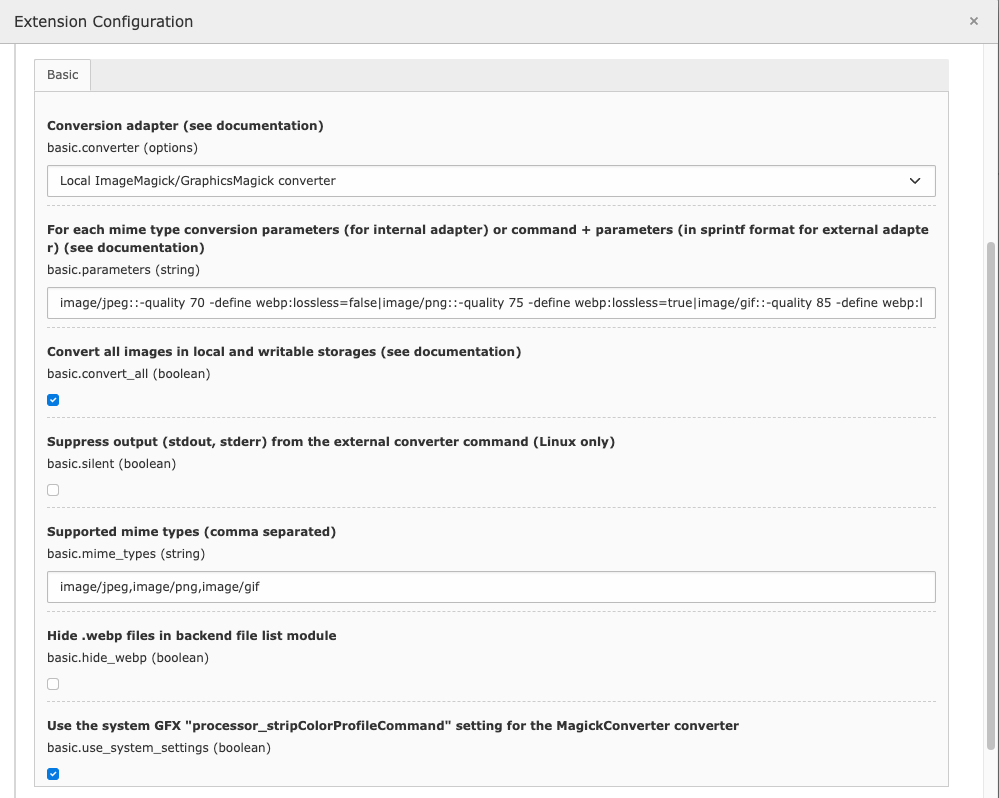
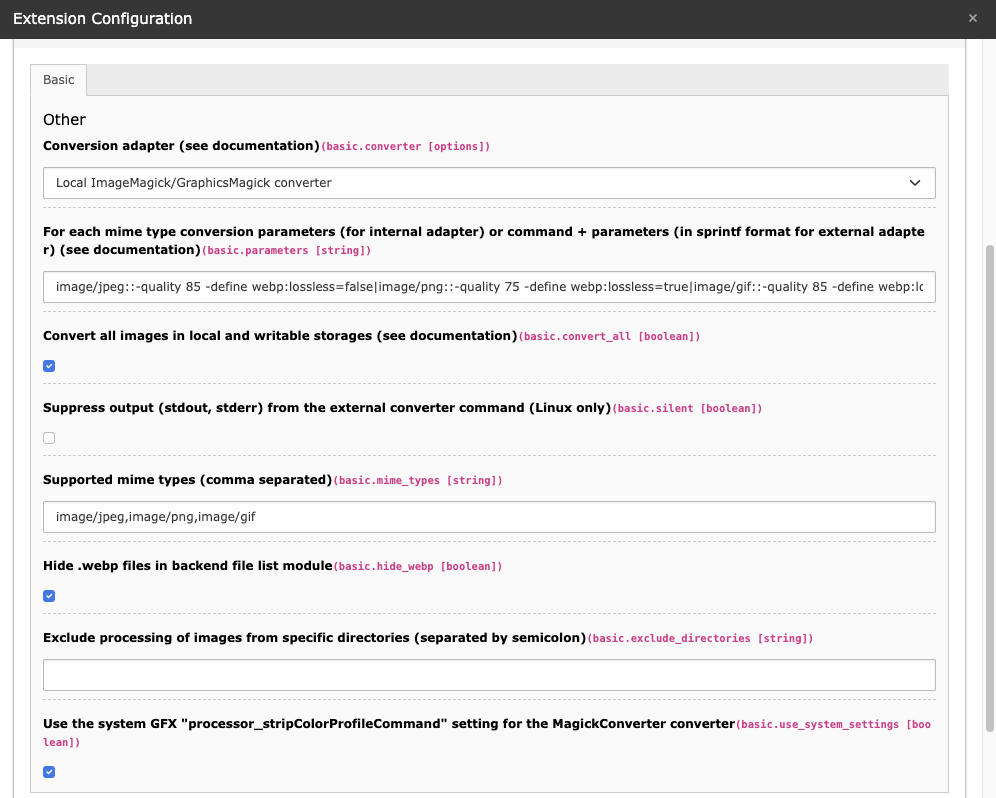
[FEATURE] Add a new setting to exclude directories from processing
Update documentation.

Changed region(s): [[0.0, 0.0, 1.0, 1.0], [0.9337, 0.6316, 0.9649, 0.6617], [0.9337, 0.2105, 0.9649, 0.2406]]

diff --git a/Classes/EventListener/AfterFileProcessing.php b/Classes/EventListener/AfterFileProcessing.php
@@ -112,6 +112,10 @@ final class AfterFileProcessing
             return false;
         }
 
+        if ($this->originalFileIsInExcludedDirectory($processedFile->getOriginalFile())) {
+            return false;
+        }
+
         return true;
     }
 
@@ -147,6 +151,23 @@ final class AfterFileProcessing
         }
 
         return 'Local' === $storage->getDriverType() && $storage->isWritable();
+    }
+
+    private function originalFileIsInExcludedDirectory(FileInterface $file): bool
+    {
+        $storageBasePath = $file->getStorage()->getConfiguration()['basePath'];
+        $filePath = rtrim($storageBasePath, '/') . '/' . ltrim($file->getIdentifier(), '/');
+        $excludeDirectories = array_filter(explode(';', Configuration::get('exclude_directories')));
+
+        if (!empty($excludeDirectories)) {
+            foreach ($excludeDirectories as $excludedDirectory) {
+                if (str_starts_with($filePath, trim($excludedDirectory))) {
+                    return true;
+                }
+            }
+        }
+
+        return false;
     }
 
     private function removeProcessedFile(ProcessedFile $processedFile): void

diff --git a/ext_localconf.php b/ext_localconf.php
@@ -1,12 +1,15 @@
 <?php
 
+use Plan2net\Webp\Core\Filter\FileNameFilter;
+use Plan2net\Webp\Service\Configuration;
+
 defined('TYPO3') || exit;
 
 (static function () {
-    if (\Plan2net\Webp\Service\Configuration::get('hide_webp')) {
+    if (Configuration::get('hide_webp')) {
         // Hide webp files in file lists
         $GLOBALS['TYPO3_CONF_VARS']['SYS']['fal']['defaultFilterCallbacks'][] = [
-            \Plan2net\Webp\Core\Filter\FileNameFilter::class,
+            FileNameFilter::class,
             'filterWebpFiles',
         ];
     }

diff --git a/Classes/Service/Webp.php b/Classes/Service/Webp.php
@@ -27,6 +27,7 @@ final class Webp
         if ('webp' === $originalFile->getExtension()) {
             return;
         }
+
         $processedFile->setName($originalFile->getName() . '.webp');
         $processedFile->setIdentifier($originalFile->getIdentifier() . '.webp');
 

diff --git a/README.md b/README.md
@@ -1,9 +1,5 @@
 # WebP for TYPO3 CMS
 
-Use version 2.* for TYPO3 CMS LTS 8 and 9 and >= 3.* for TYPO3 CMS >= 10.4
-
-:fire: **If you update from a previous version to 2.0 you have to save the configuration again once!**
-
 ## What does it do?
 
 Adds an automagically created _WebP_ copy for every processed jpg/jpeg/png/gif image in the format
@@ -106,6 +102,14 @@ If you need a more customized behaviour for hiding or showing the generated file
 you can always remove or change the `$GLOBALS['TYPO3_CONF_VARS']['SYS']['fal']['defaultFilterCallbacks']` settings
 (see `ext_localconf.php` for details) in your own extension.
 
+### `exclude_directories`
+
+    # cat=basic; type=string; label=Exclude processing of images from specific directories (separated by semicolon)
+    exclude_directories =
+
+Here you can exclude processing of images from specific directories.
+Example value: `/fileadmin/demo/special;/another-storage/demo/exclusive`
+
 ### `use_system_settings`
 
     # cat=basic; type=boolean; label=Use the system GFX "processor_stripColorProfileCommand" setting for the MagickConverter converter
@@ -156,6 +160,14 @@ Add these rules to your `server` configuration:
 
 Make sure that there are no other rules that prevent further rules or already apply to the specified image formats and prevent further execution!
 
+You can also add a browser restriction if your audience uses old versions of Safari, etc., so no _webp_ is served to them.
+
+    location ~* ^.+\.(png|gif|jpe?g)$ {
+        if ($http_user_agent !~* (Chrome|Firefox|Edge)) {
+            set $webp_suffix "";
+        }
+        …
+
 ### Apache (.htaccess example)
 
 We assume that module `mod_rewrite.c` is enabled.
@@ -178,6 +190,12 @@ is already part of the TYPO3 htaccess template in
     </IfModule>
 
 Make sure that there are no other rules that prevent further rules or already apply to the specified image formats and prevent further execution!
+
+You can also add a browser restriction if your audience uses old versions of Safari, etc., so no _webp_ is served to them.
+
+    RewriteCond %{HTTP_ACCEPT} image/webp
+    RewriteCond %{HTTP_USER_AGENT} ^.*(Chrome|Firefox|Edge).*$ [NC]
+    …
 
 ## Verify successful webp image generation and delivery
 
@@ -210,6 +228,8 @@ Every problem is logged to the TYPO3 log (since version 2.0), normally found in 
 
 Converted files that are larger than the original are removed automatically (since version 2.1.0)
 and the conversion will not be retried with the same configuration.
+
+If you find that your webp images don't look like the original images (much darker, for example), make sure you have the correct profile set in the system setting `GFX/processor_colorspace` (e.g. `sRGB`). Remember to clean up any processed files after this change.
 
 ## Removing processed files
 
